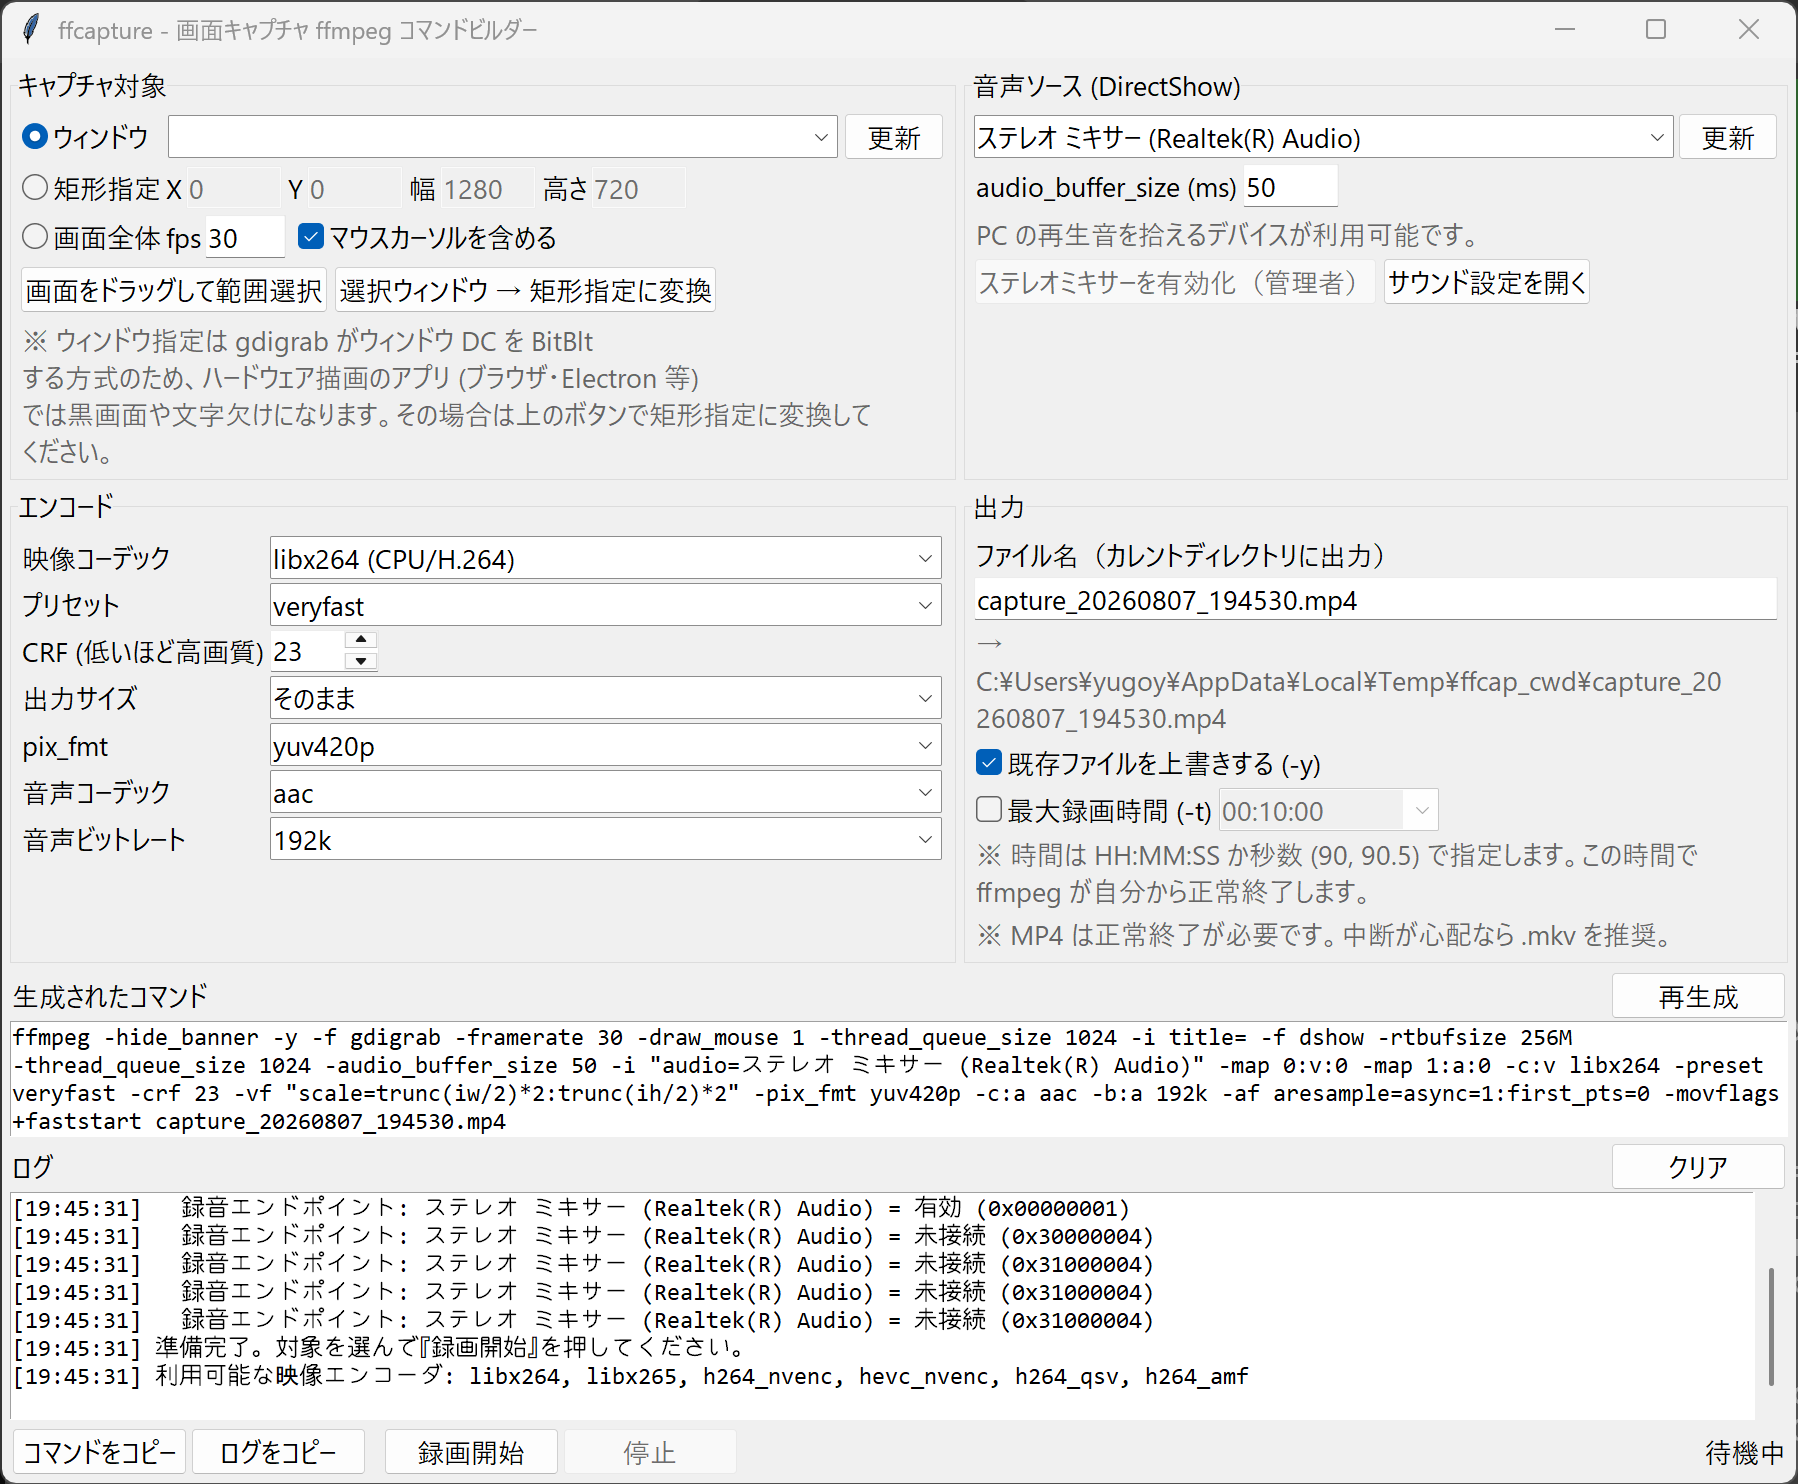
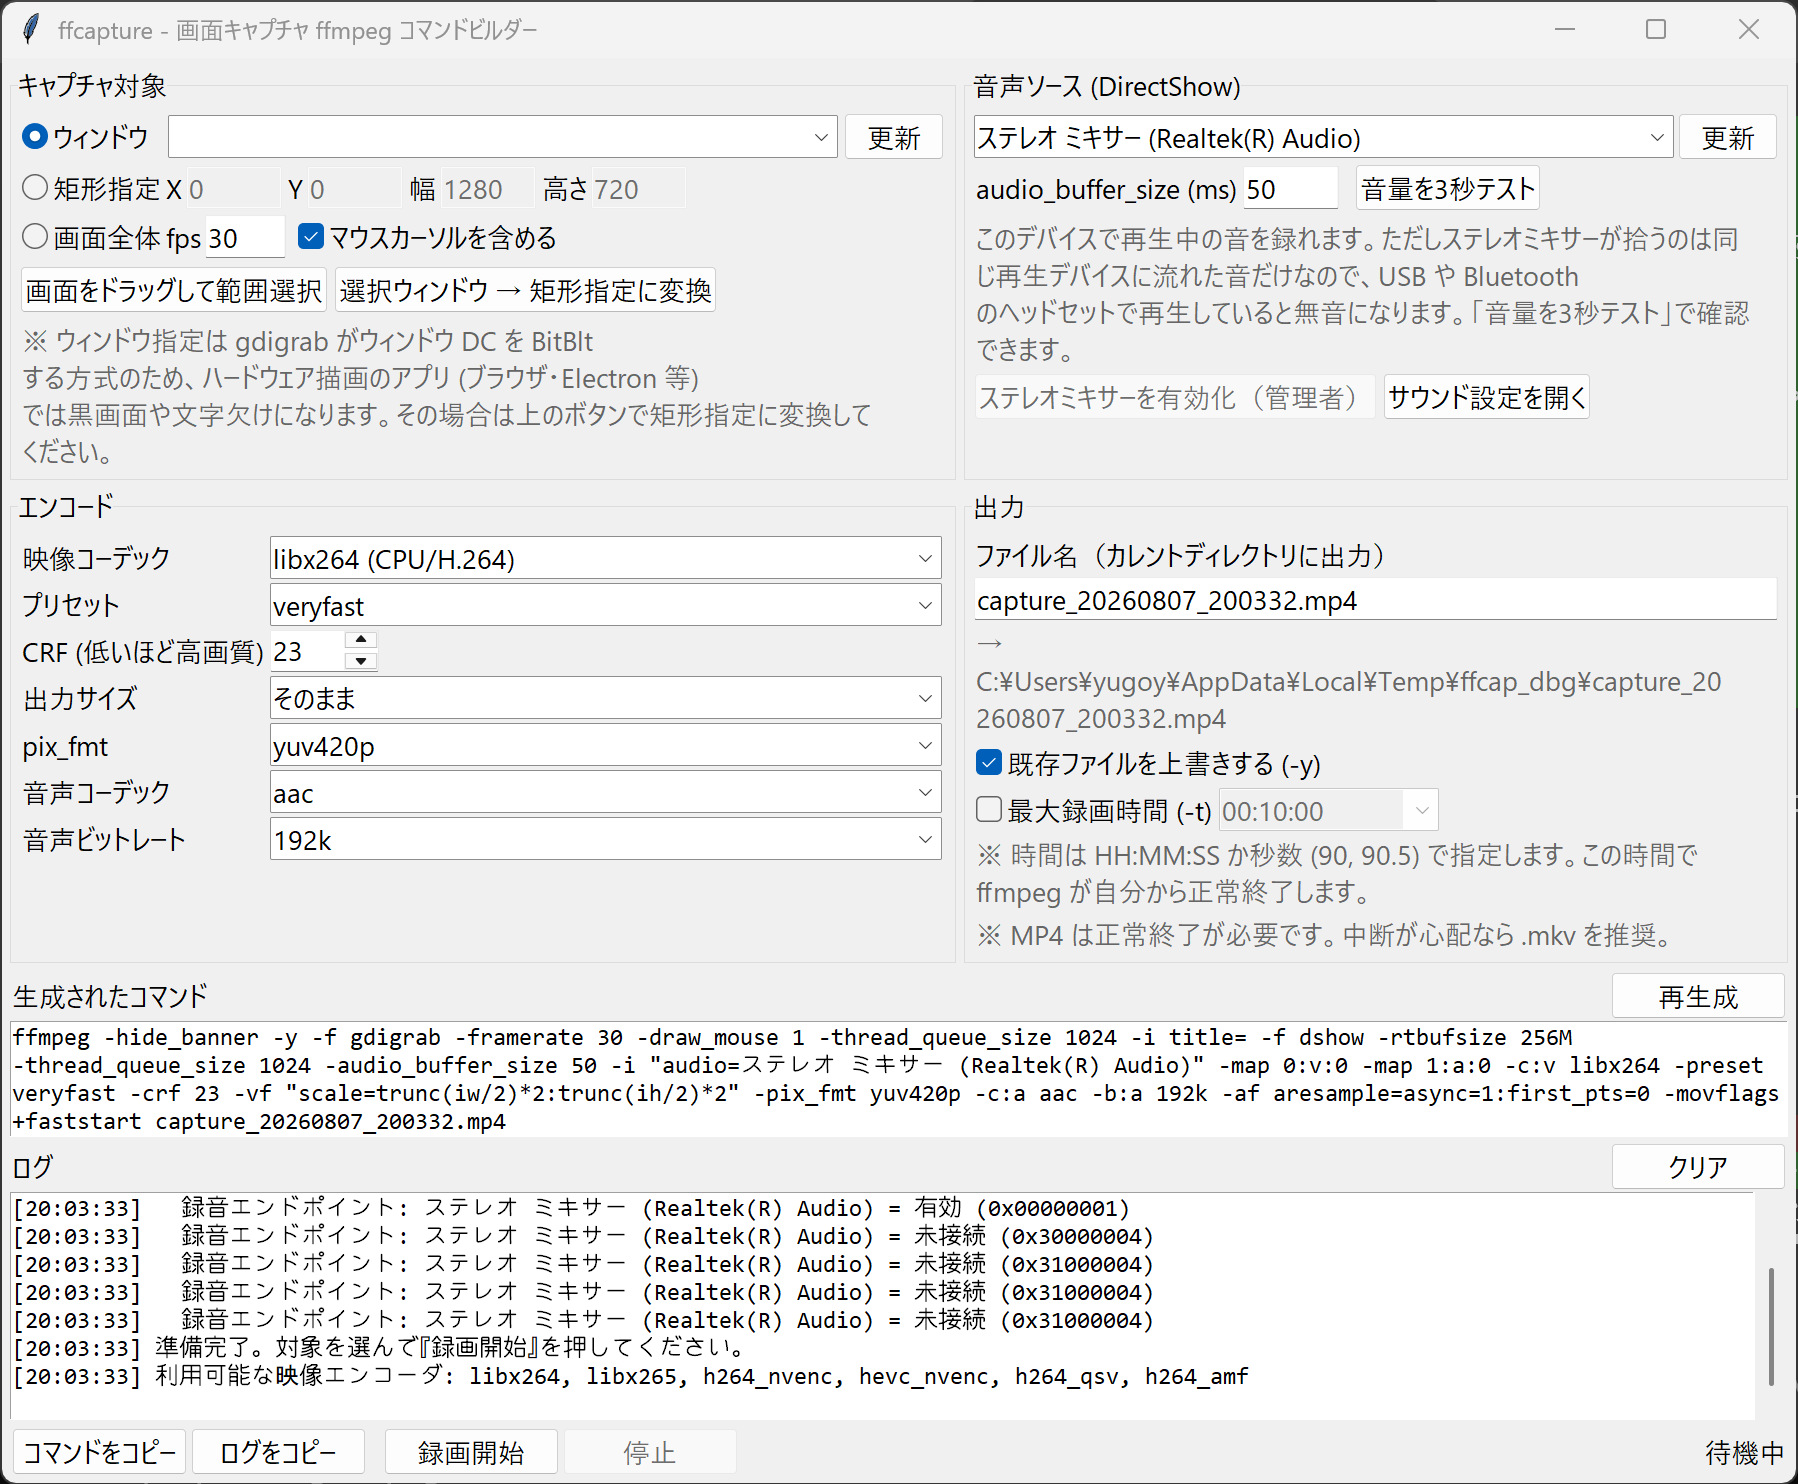
Add an audio level test to diagnose silent recordings
Recording from Stereo Mix can produce a valid but silent (or nearly
silent) track, and nothing in the UI told you which. Added a
"音量を3秒テスト" button: it records 3 seconds from the selected DirectShow
device and reports mean/peak dB from ffmpeg's volumedetect, with an
interpretation.

Thresholds come from measurements on this machine: true silence still
reads about -78 dB peak because of the noise floor, so the silence check
is -60 dB rather than -90.

Also spell out in the device note and the README that Stereo Mix only
captures what goes through its own playback device - playing to a USB or
Bluetooth headset records silence.

diff --git a/README.md b/README.md
@@ -81,6 +81,22 @@ Realtek などのドライバが持っていても既定で無効化されてい
 有効になります。押すと UAC 付きの PowerShell で `DeviceState=1` に書き換え、
 `AudioEndpointBuilder` を再起動してから再列挙します（数秒だけ音が途切れます）。
 
+#### 録れているか確かめる
+
+「音量を3秒テスト」を押すと、選択中のデバイスから 3 秒録って
+`volumedetect` で平均・ピークを dB で表示します。音が入っていないときの切り分け用です。
+
+| ピーク | 意味 |
+| --- | --- |
+| −60 dB 以下 | 実質無音。何も再生していないか、**別の再生デバイスに音が流れている** |
+| −60 〜 −30 dB | 拾えてはいるが小さい。録音レベルか再生音量を上げる |
+| −30 dB 以上 | 十分 |
+
+**ステレオミキサーが拾えるのは、それが属する再生デバイスに流れた音だけです。**
+USB や Bluetooth のヘッドセット・スピーカーで再生していると、
+Realtek のステレオミキサーは無音を録り続けます。この場合は再生先を
+そのサウンドカードに戻すか、VB-CABLE のような仮想デバイスを使ってください。
+
 ステレオミキサー自体が存在しない構成では、
 [VB-CABLE](https://vb-audio.com/Cable/) や
 [screen-capture-recorder](https://github.com/rdp/screen-capture-recorder-to-video-windows-free)
